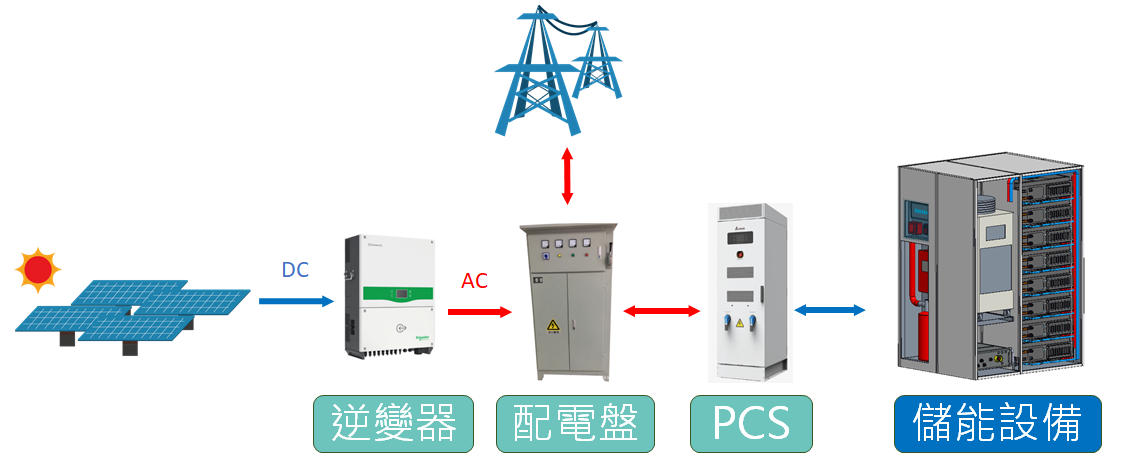
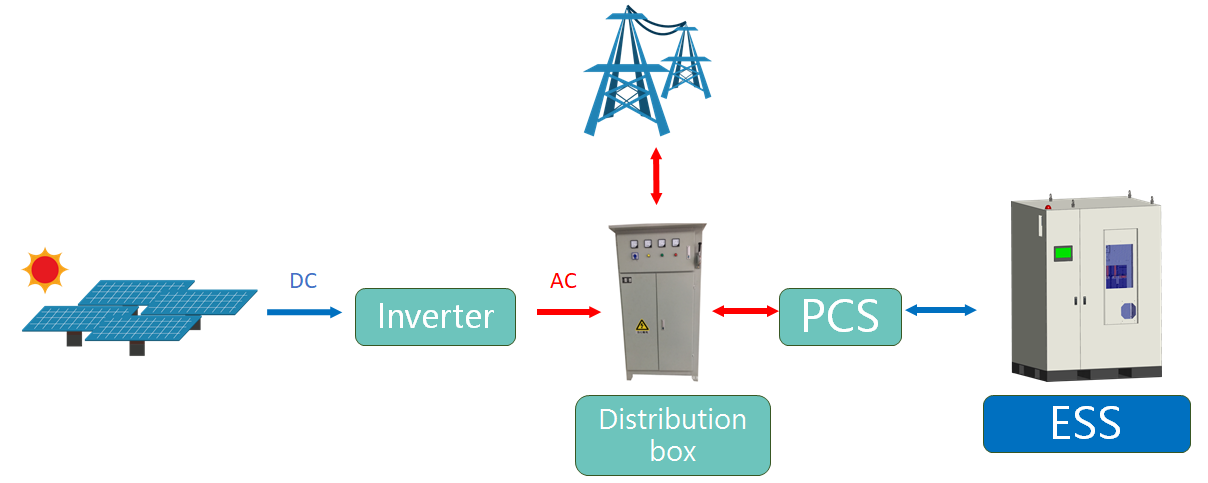
將部分圖文改為英文版、修改技術研發和E-bike部分圖片、修改產品資訊R3、R4為R2、R3

Changed region(s): [[0.0, 0.3242, 0.992, 1.0], [0.434, 0.0, 0.589, 0.4126]]

diff --git a/src/Pages/product_ESS.js b/src/Pages/product_ESS.js
@@ -17,19 +17,19 @@ const data = {
     },
     etica_o: {
       img: "/img/etica-o.png",
-      alt: "etica+o",
+      alt: "Etica+o",
     },
     etica_r1: {
       img: "/img/etica-r1.png",
-      alt: "etica+r1",
+      alt: "Etica+R1",
+    },
+    etica_r2: {
+      img: "/img/etica-r2.png",
+      alt: "Etica+R2",
     },
     etica_r3: {
       img: "/img/etica-r3.png",
-      alt: "etica+r3",
-    },
-    water: {
-      img: "/img/etica-r4.png",
-      alt: "etica+r4",
+      alt: "Etica+R3",
     },
   },
 };
@@ -290,7 +290,7 @@ const ProductESS = () => {
         </table>
       </div>
 
-      {/* Etica+R3 */}
+      {/* Etica+R2 */}
       <div className="product-ESS-content">
         <div className="contentWrap">
           <div
@@ -298,8 +298,8 @@ const ProductESS = () => {
             data-aos="fade-right"
             data-aos-duraction="500"
           >
-            <h2 id="Etica+R3">
-              Etica <sup>+</sup>R3
+            <h2 id="Etica+R2">
+              Etica <sup>+</sup>R2
             </h2>
             <ul>
               <li>{t("家用儲能系統")}</li>
@@ -385,12 +385,12 @@ const ProductESS = () => {
         </table>
       </div>
 
-      {/* Etica+R4 */}
+      {/* Etica+R3 */}
       <div className="product-ESS-content">
         <div className="contentWrap">
           <img
-            src={imgHandler(data.product2_content.water.img)}
-            alt={data.product2_content.water.alt}
+            src={imgHandler(data.product2_content.etica_r3.img)}
+            alt={data.product2_content.etica_r3.alt}
             data-aos="fade-right"
             data-aos-duraction="500"
           />
@@ -399,8 +399,8 @@ const ProductESS = () => {
             data-aos="fade-left"
             data-aos-duraction="500"
           >
-            <h2 id="Etica+R4">
-              Etica <sup>+</sup>R4
+            <h2 id="Etica+R3">
+              Etica <sup>+</sup>R3
             </h2>
             <ul>
               <li>{t("工業用儲能系統")}</li>

diff --git a/src/Pages/home.js b/src/Pages/home.js
@@ -53,9 +53,9 @@ const data = {
   ],
   news: [
     {
-      url: "https://money.udn.com/money/story/5735/6128448?from=edn_related_storybottom",
-      title: "明曜異業結盟展企圖心 今年營收上看10億",
-      date: "2022/03/01",
+      url: "",
+      title: "",
+      date: "",
     },
   ],
 };
@@ -159,7 +159,7 @@ const Home = () => {
           <div className="topline" id="news"></div>
           <div className="trapezoid"></div>
           <div className="underline"></div>
-          <div className="news" data-aos="fade-right" data-aos-duration="500">
+          {/* <div className="news" data-aos="fade-right" data-aos-duration="500">
             {data.news.map((newsItem) => (
               <div className="news-wrap" key={v4()}>
                 <i className="fa fa-newspaper-o" aria-hidden="true"></i>
@@ -169,7 +169,7 @@ const Home = () => {
                 <span>{newsItem.date}</span>
               </div>
             ))}
-          </div>
+          </div> */}
           <h2 className={changeLetterSpacing}>{t("相新")}</h2>
           <h2 className={changeLetterSpacing}>{t("關聞")}</h2>
         </div>

diff --git a/src/Pages/aboutUs.js b/src/Pages/aboutUs.js
@@ -24,7 +24,7 @@ const data = {
       alt: "淺藍色為底的圖片，一本書和一支筆",
     },
     milestone: {
-      image: imgHandler("/img/milestone.jpg"),
+      image: imgHandler("/img/milestone.png"),
       alt: `2002 - ETICA Battery INC. was founded
             2022 - UL Certification
             2003 - ISO 9001 Certification
